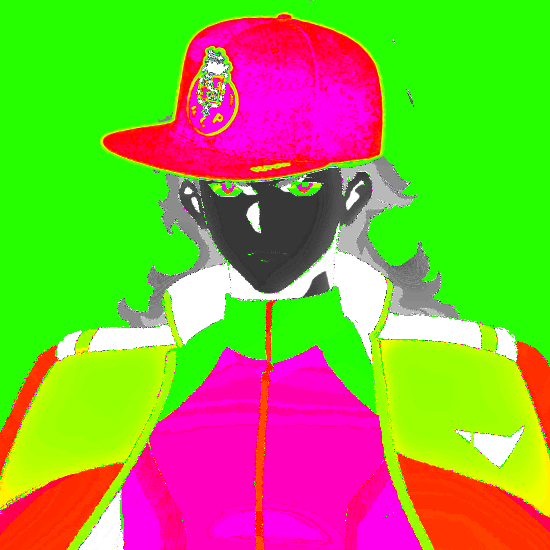
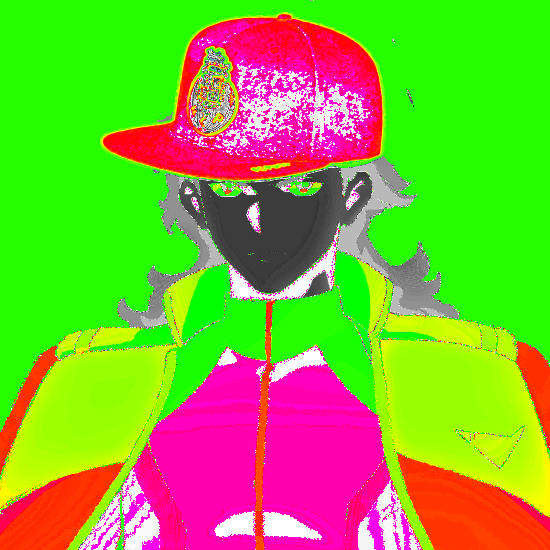
i will commit acts of terror if this keeps acting illogically

diff --git a/threading attempt/ndvi.py b/threading attempt/ndvi.py
@@ -65,7 +65,28 @@ def calc_ndvi(image):
     return ndvi
 
 
-def main(base_folder):
+def process(image, show=False, delay=-1):
+    if show:
+        display(image, 'Original', delay)
+    contrasted = contrast_stretch(image)
+    if show:
+        display(contrasted, 'Contrasted Original', delay)
+    ndvi = calc_ndvi(contrasted)
+    if show:
+        display(ndvi, 'NDVI', delay)
+    ndvi_contrasted = contrast_stretch(ndvi)
+    if show:
+        display(ndvi_contrasted, 'NDVI Contrasted', delay)
+    return ndvi_contrasted
+
+
+def colour_map(image, cm=fastiecm.fastiecm):
+    color_mapped_prep = image.astype(np.uint8)
+    color_mapped_image = cv2.applyColorMap(color_mapped_prep, cm)
+    return color_mapped_image
+
+
+def process_all(base_folder):
     """
     Looping through every file and folder in the current directory (without recursiveness),
     for every file with extension '.jpg' or '.jpeg', making sure not to process the same image twice or process an already NDVI image, it'll be processed into a greyscale NDVi image,
@@ -83,30 +104,19 @@ def main(base_folder):
             filename, extension = image.split(".", 1)
             if filename + "_ndvi.png" not in files and "ndvi" not in filename:
                 print(f"processing {filename}")
-                # display(original, 'Original', -1)
-                contrasted = contrast_stretch(original)
-                # display(contrasted, 'Contrasted Original', -1)
-                ndvi = calc_ndvi(contrasted)
-                # display(ndvi, 'NDVI', -1)
-                ndvi_contrasted = contrast_stretch(ndvi)
-                # display(ndvi_contrasted, 'NDVI Contrasted', -1)
-                cv2.imwrite(str(base_folder / str(filename + '_ndvi.png')),
-                            ndvi_contrasted)
-                color_mapped_prep = ndvi_contrasted.astype(np.uint8)
-                color_mapped_image = cv2.applyColorMap(color_mapped_prep, fastiecm.fastiecm)
-                cv2.imwrite(str(base_folder / str(filename + '_ndvi_cm.png')),
-                            color_mapped_image)
+                ndvi_contrasted = process(original)
+                cv2.imwrite(
+                    str(base_folder / str(filename + '_ndvi.png')), ndvi_contrasted)
+                cv2.imwrite(
+                    str(base_folder / str(filename + '_ndvi_cm.png')), colour_map(ndvi_contrasted))
             elif filename + "_ndvi_cm.png" not in files and "ndvi" in filename:
-                color_mapped_prep = original.astype(np.uint8)
-                color_mapped_image = cv2.applyColorMap(color_mapped_prep, fastiecm.fastiecm)
-                cv2.imwrite(str(base_folder / str(filename + '_cm.png')),
-                            color_mapped_image)
+                cv2.imwrite(
+                    str(base_folder / str(filename + '_cm.png')), colour_map(original))
             elif filename + "_ndvi_cm.png" not in files and "ndvi" not in filename:
-                processed = cv2.imread(str(base_folder / str(filename + "_ndvi.png")))
-                color_mapped_prep = processed.astype(np.uint8)
-                color_mapped_image = cv2.applyColorMap(color_mapped_prep, fastiecm.fastiecm)
-                cv2.imwrite(str(base_folder / str(filename + '_ndvi_cm.png')),
-                            color_mapped_image)
+                processed = cv2.imread(
+                    str(base_folder / str(filename + "_ndvi.png")))
+                cv2.imwrite(
+                    str(base_folder / str(filename + '_ndvi_cm.png')), colour_map(processed))
     finish_time = datetime.now()
     elapsed = finish_time - start_time
     print(elapsed)
@@ -114,4 +124,5 @@ def main(base_folder):
     print(f"{minutes} minutes and {seconds} seconds have passed")
     return minutes, seconds
 
-main(Path(__file__).parent.resolve())
+
+process_all(Path(__file__).parent.resolve())

diff --git a/astropi-ndvi-en-resources/ndvi.py b/astropi-ndvi-en-resources/ndvi.py
@@ -4,7 +4,7 @@ import numpy as np
 from pathlib import Path
 from time import sleep
 from datetime import datetime
-import fastiecm
+import fastiecm as fastiecm
 
 base_folder = Path(__file__).parent.resolve()
 delay = 5
